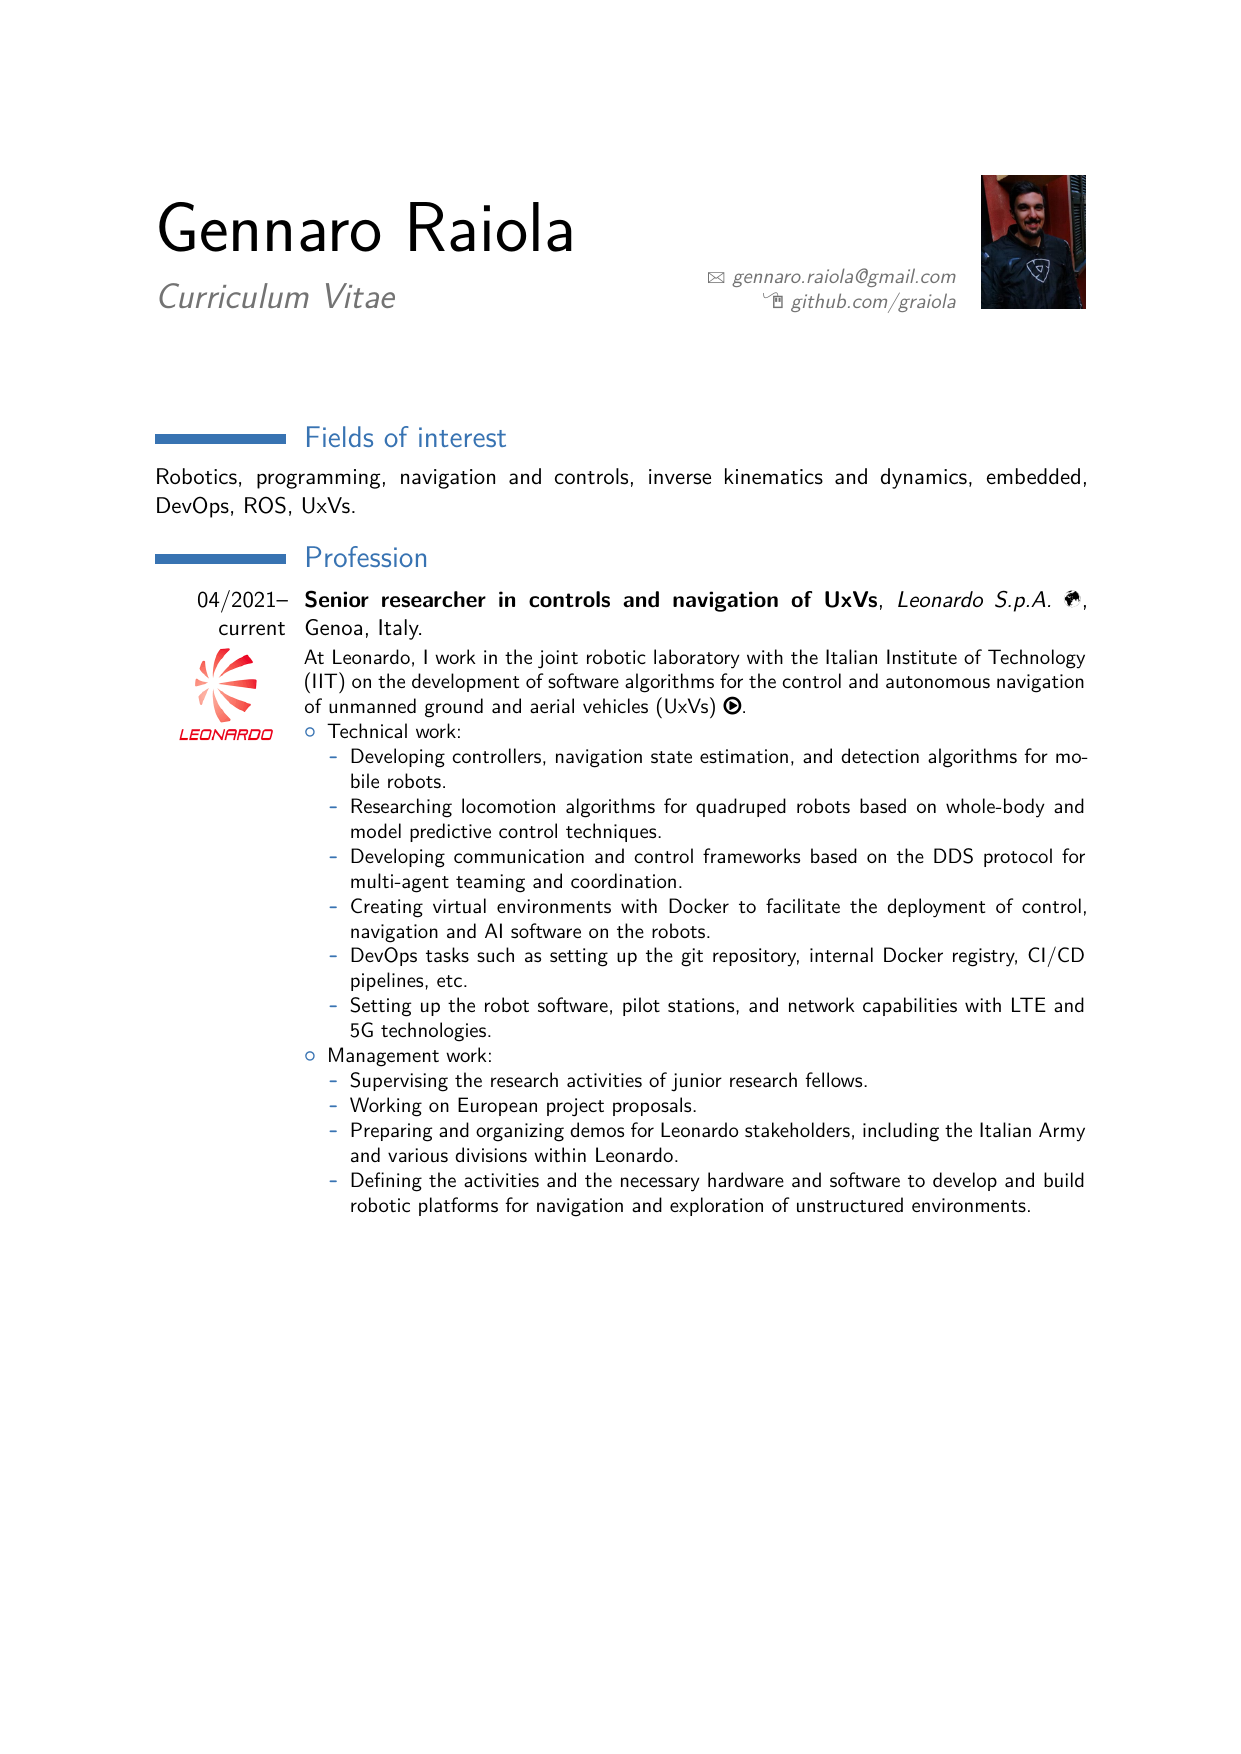
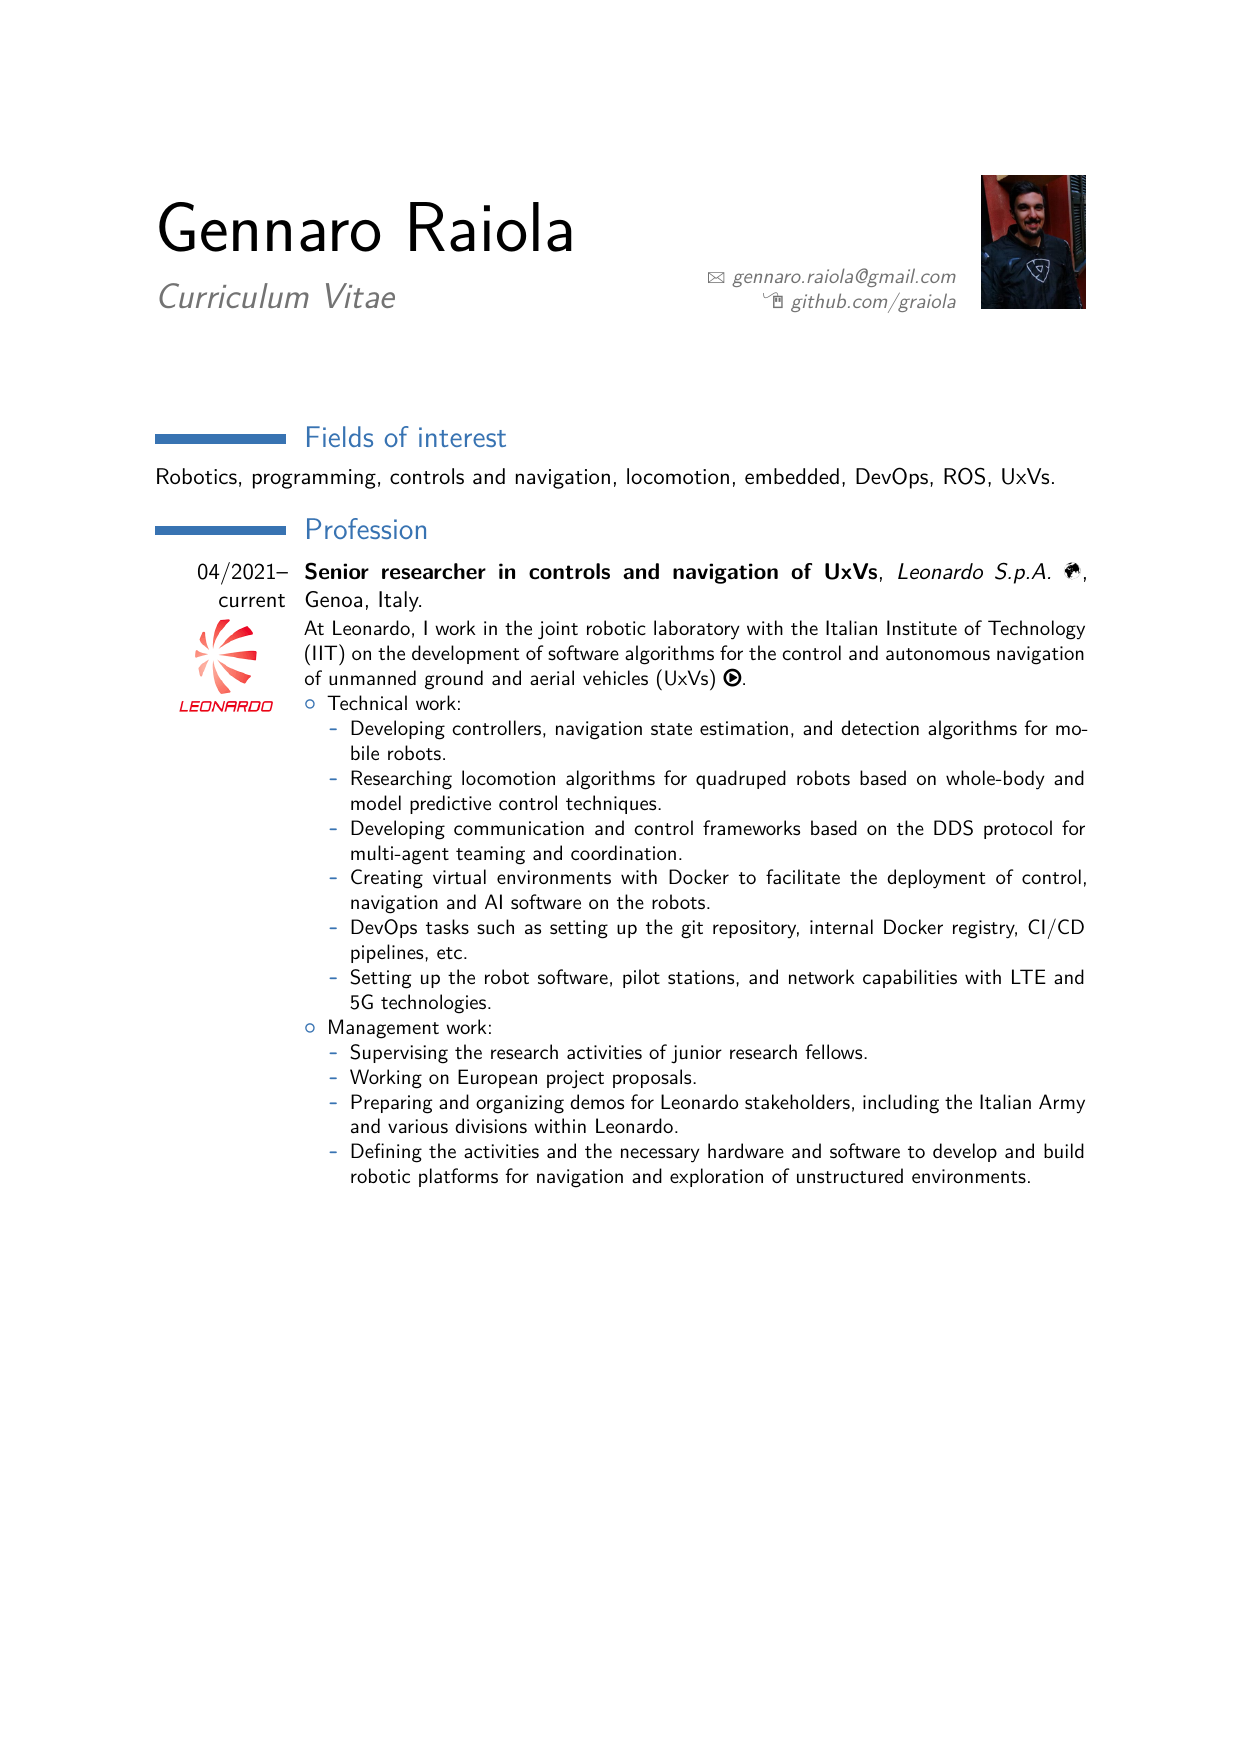
Generated files updated on dom 15 ott 2023, 16:01:59, CEST

Changed region(s): [[0.1225, 0.2463, 0.888, 0.7081], [0.3368, 0.2463, 0.8574, 0.2771]]

diff --git a/CV_Gennaro-Raiola.tex b/CV_Gennaro-Raiola.tex
@@ -78,7 +78,7 @@
 %}
 %\end{center}
 \section{Fields of interest}
-Robotics, programming, navigation and controls, inverse kinematics and dynamics, embedded, DevOps, ROS, UxVs.
+Robotics, programming, controls and navigation, locomotion, embedded, DevOps, ROS, UxVs.
 \section{Profession}
 \cventry{04/2021--current \logo{leonardo}}{Senior researcher in controls and navigation of UxVs}{Leonardo S.p.A. \href{https://www.leonardocompany.com/}{\Mundus}}{Genoa, Italy}{}{ 
 At Leonardo, I work in the joint robotic laboratory with the Italian Institute of Technology (IIT) on the development of software algorithms for the control and autonomous navigation of unmanned ground and aerial vehicles (UxVs) \href{https://youtu.be/hWOjaNWAr-Q}{\faPlayCircle}.
